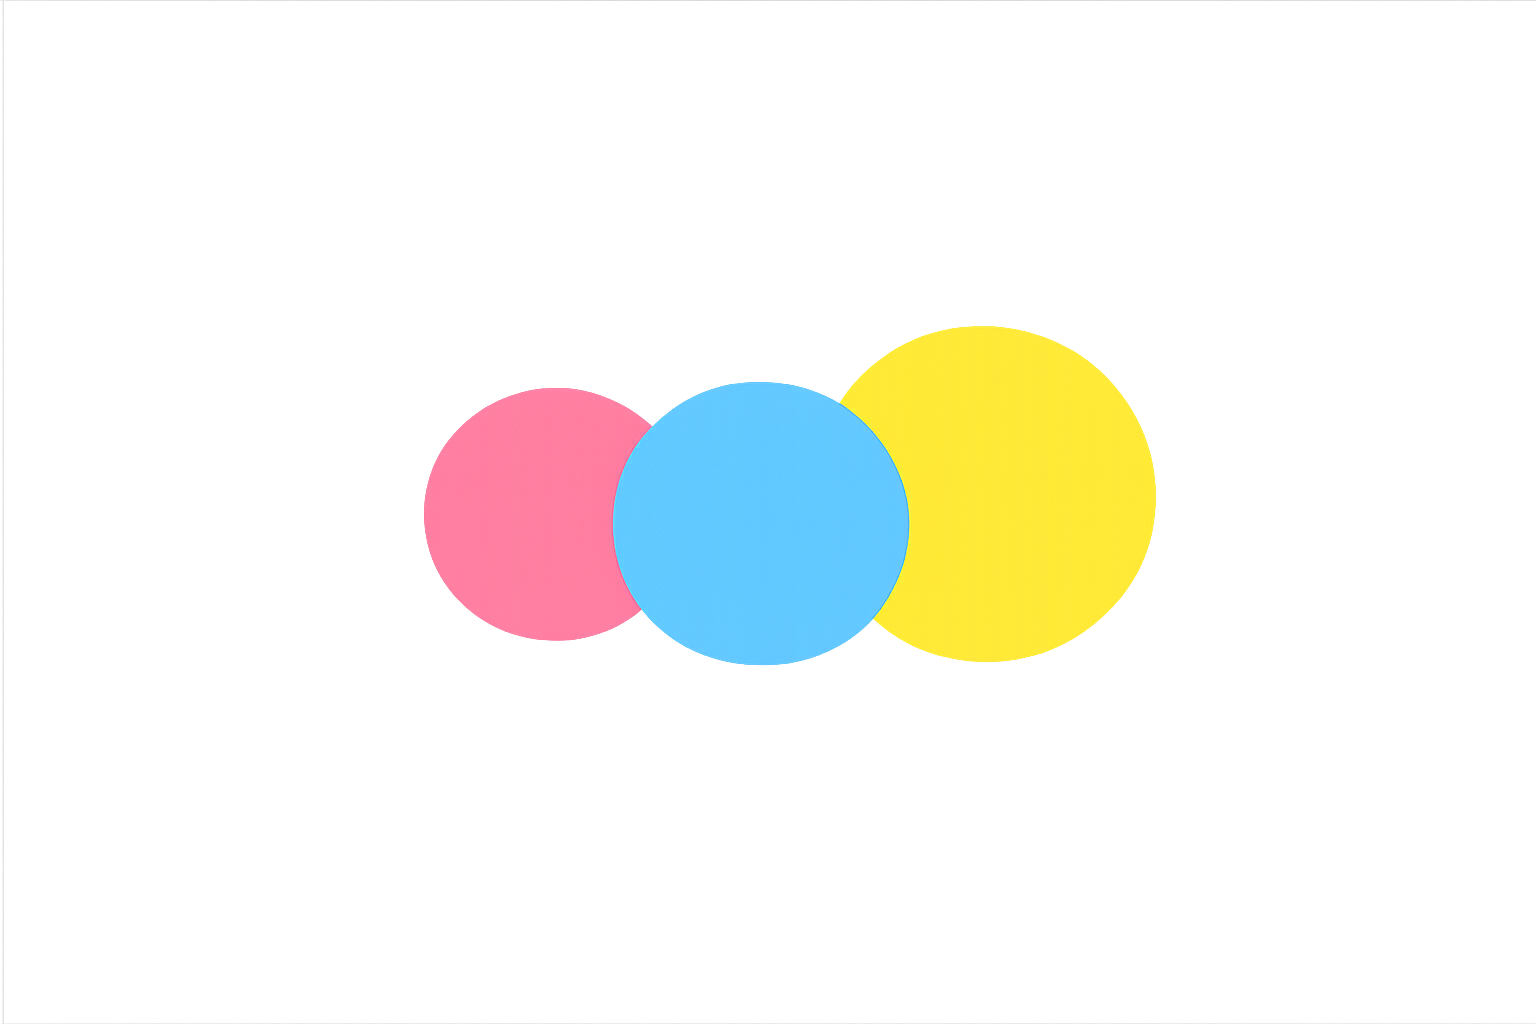
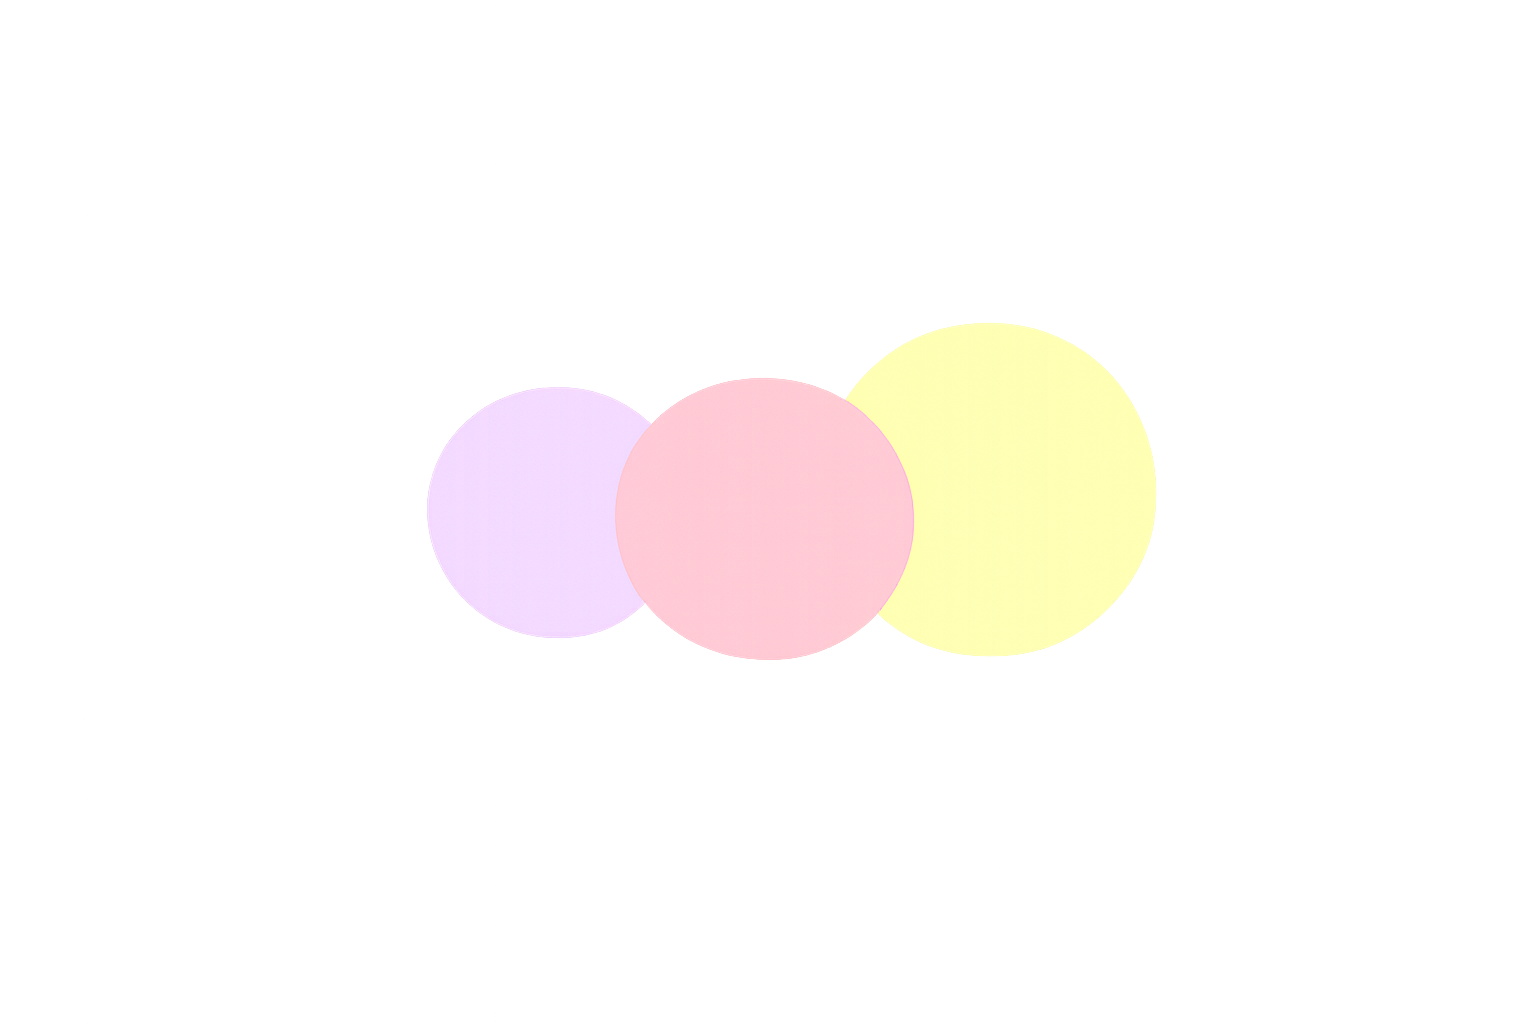
Fresh ball art & soundtrack; repeating bunting; tighter decor layout
- Pull the new Balls.png (wider aspect) and updated soundtrack.mp3 from assets.
- Bunting now repeats edge-to-edge across the whole fence like the garland,
  generated as tiled swags rather than three fixed ones.
- Butterflies shrunk to a ~quarter-size cluster centred in the paddock; the
  source image's edge-to-edge scatter was feathered to a soft vignette so it
  no longer reads as a hard rectangle when scaled down.
- Shortened the ground-decor band (viewBox 140->100, baseline raised) so the
  props sit closer to the fence horses instead of floating in empty grass.
- Marmalade the cat scaled down so she's clearly smaller than the dogs.

Changed region(s): [[0.25, 0.3125, 0.75, 0.6562]]

diff --git a/js/render.js b/js/render.js
@@ -298,15 +298,33 @@ function fenceGarlandImages() {
   return images.join('');
 }
 
+// Bunting: swags of triangular flags strung from the top rail, repeating
+// edge-to-edge across the whole fence just like the flower garland.
+const BUNTING_COLORS = ['#E8917A', '#8FC0E8', '#F5D949', '#A6D8A0'];
+function fenceBuntingSwags() {
+  const swagW = 130;   // one swag spans this much of the fence
+  const y0 = 30;       // string endpoints (on the top rail)
+  const dip = 20;      // how far the string sags at the swag's centre
+  const fw = 5, fh = 13; // flag half-width and length
+  const parts = [];
+  for (let x0 = 0; x0 < 900; x0 += swagW) {
+    const xc = x0 + swagW / 2;
+    const x1 = x0 + swagW;
+    parts.push(`<path d="M${x0},${y0} Q${xc},${y0 + dip} ${x1},${y0}" fill="none" stroke="#a3763a" stroke-width="1.5"/>`);
+    for (let i = 0; i < 4; i++) {
+      const t = (i + 0.5) / 4;
+      const fx = x0 + t * swagW;
+      // string y at t on the quadratic bezier
+      const sy = (1 - t) * (1 - t) * y0 + 2 * (1 - t) * t * (y0 + dip) + t * t * y0;
+      parts.push(`<path d="M${(fx - fw).toFixed(1)},${sy.toFixed(1)} L${(fx + fw).toFixed(1)},${sy.toFixed(1)} L${fx.toFixed(1)},${(sy + fh).toFixed(1)} Z" fill="${BUNTING_COLORS[i]}"/>`);
+    }
+  }
+  return parts.join('');
+}
+
 const FENCE_DECOR_MARKUP = {
   'flower-garland': fenceGarlandImages(),
-  bunting: `
-    <path d="M30,27 Q95,50 160,27" fill="none" stroke="#a3763a" stroke-width="1.5"/>
-    <path d="M51,34.4 L61,34.4 L56,47.4 Z" fill="#E8917A"/><path d="M77,38 L87,38 L82,51 Z" fill="#8FC0E8"/><path d="M103,38 L113,38 L108,51 Z" fill="#F5D949"/><path d="M129,34.4 L139,34.4 L134,47.4 Z" fill="#A6D8A0"/>
-    <path d="M390,27 Q455,50 520,27" fill="none" stroke="#a3763a" stroke-width="1.5"/>
-    <path d="M411,34.4 L421,34.4 L416,47.4 Z" fill="#E8917A"/><path d="M437,38 L447,38 L442,51 Z" fill="#8FC0E8"/><path d="M463,38 L473,38 L468,51 Z" fill="#F5D949"/><path d="M489,34.4 L499,34.4 L494,47.4 Z" fill="#A6D8A0"/>
-    <path d="M660,27 Q725,50 790,27" fill="none" stroke="#a3763a" stroke-width="1.5"/>
-    <path d="M681,34.4 L691,34.4 L686,47.4 Z" fill="#E8917A"/><path d="M707,38 L717,38 L712,51 Z" fill="#8FC0E8"/><path d="M733,38 L743,38 L738,51 Z" fill="#F5D949"/><path d="M759,34.4 L769,34.4 L764,47.4 Z" fill="#A6D8A0"/>`,
+  bunting: fenceBuntingSwags(),
 };
 
 /** Draw the fence-line decor placed in the on-screen paddock. */
@@ -323,7 +341,7 @@ function renderPaddockDecor(state, paddock) {
 // at a footprint in the 900x140 row. fw/fh are the fraction of the trimmed
 // frame the subject fills; the subject is centred in the frame, so we size the
 // image from the wanted subject height and centre it on (cx, baseline).
-const GROUND_BASELINE = 128; // subject bottoms rest near here
+const GROUND_BASELINE = 92; // subject bottoms rest near here (in the 100-tall row)
 // Each prop is a transparent PNG; aspect + fw/fh (fraction of the trimmed frame
 // its solid subject fills, glow ignored) let us size from a target subject
 // height. The horizontal slot is assigned dynamically so any mix of props
@@ -333,10 +351,10 @@ const GROUND_IMAGES = {
   'apple-barrel':   { aspect: 1.465, fw: 0.382, fh: 0.612, subjH: 80 },
   trough:           { aspect: 1.485, fw: 0.747, fh: 0.343, subjH: 42 },
   'hay-bales':      { aspect: 1.476, fw: 0.584, fh: 0.686, subjH: 72 },
-  'play-balls':     { aspect: 1.500, fw: 0.477, fh: 0.331, subjH: 46 },
+  'play-balls':     { aspect: 2.163, fw: 0.475, fh: 0.329, subjH: 46 },
   muffin:           { aspect: 1.500, fw: 0.502, fh: 0.541, subjH: 66 },
   joya:             { aspect: 1.500, fw: 0.581, fh: 0.645, subjH: 78 },
-  marmalade:        { aspect: 1.465, fw: 0.509, fh: 0.532, subjH: 62 },
+  marmalade:        { aspect: 1.465, fw: 0.509, fh: 0.532, subjH: 48 },
 };
 
 function groundImage(id, cx) {
@@ -359,7 +377,7 @@ function groundDecorRow(state, paddock) {
     .join('');
   const row = document.createElement('div');
   row.className = 'ground-decor';
-  row.innerHTML = `<svg viewBox="0 0 900 140" preserveAspectRatio="xMidYMid meet" aria-hidden="true">${images}</svg>`;
+  row.innerHTML = `<svg viewBox="0 0 900 100" preserveAspectRatio="xMidYMid meet" aria-hidden="true">${images}</svg>`;
   return row;
 }
 

diff --git a/css/style.css b/css/style.css
@@ -202,13 +202,14 @@ main {
   padding: 48px 1.25rem 1.75rem;
 }
 
-/* Butterflies span the full paddock as an ambient scatter behind the horses. */
+/* Butterflies: a scatter centred in the middle of the paddock, behind the
+   horses. Sized well below full-bleed so it reads as a cluster, not wallpaper. */
 .paddock-butterflies {
   position: absolute;
   inset: 0;
   z-index: 0;
   pointer-events: none;
-  background: url('../assets/decor/butterflies.png') center / cover no-repeat;
+  background: url('../assets/decor/butterflies.png') center center / 42% auto no-repeat;
 }
 
 /* Rows sit above the butterfly layer. */